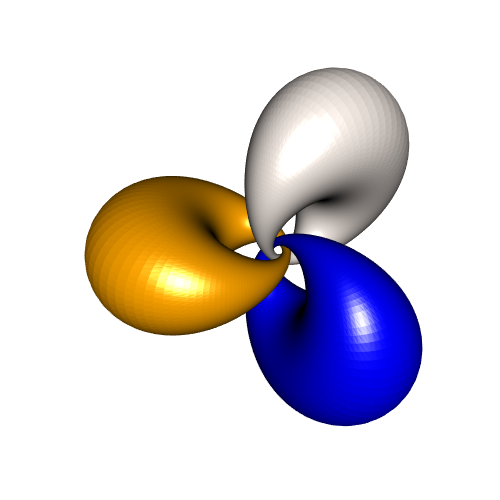
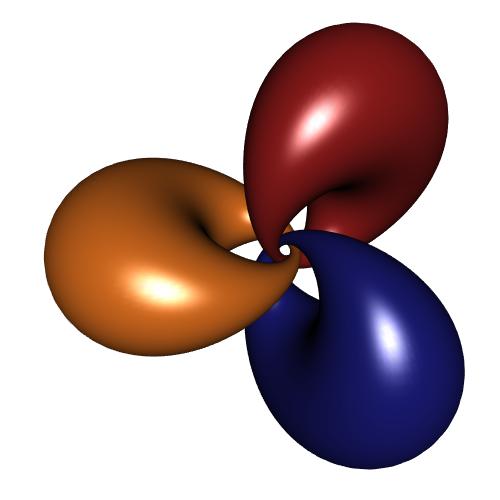
update linked cyclides

diff --git a/posts/linkedCyclidesParametric.html b/posts/linkedCyclidesParametric.html
@@ -135,13 +135,13 @@ f3z &lt;-<span class="st"> </span><span class="kw">Vectorize</span>(<span class=
 n &lt;-<span class="st"> </span><span class="dv">300</span>
 <span class="kw">parametric3d</span>(f1x,f1y,f1z, <span class="dt">umin=</span><span class="dv">0</span>,<span class="dt">umax=</span><span class="dv">2</span><span class="op">*</span>pi, <span class="dt">vmin=</span><span class="dv">0</span>,<span class="dt">vmax=</span><span class="dv">2</span><span class="op">*</span>pi, 
              <span class="dt">n=</span>n, 
-             <span class="dt">fill=</span><span class="ot">TRUE</span>, <span class="dt">color=</span><span class="st">&quot;orange&quot;</span>)
+             <span class="dt">smooth=</span><span class="ot">TRUE</span>, <span class="dt">color=</span><span class="st">&quot;chocolate&quot;</span>)
 <span class="kw">parametric3d</span>(f2x,f2y,f2z, <span class="dt">umin=</span><span class="dv">0</span>,<span class="dt">umax=</span><span class="dv">2</span><span class="op">*</span>pi, <span class="dt">vmin=</span><span class="dv">0</span>,<span class="dt">vmax=</span><span class="dv">2</span><span class="op">*</span>pi, 
              <span class="dt">n=</span>n, 
-             <span class="dt">fill=</span><span class="ot">TRUE</span>, <span class="dt">color=</span><span class="st">&quot;blue&quot;</span>, <span class="dt">add=</span><span class="ot">TRUE</span>)
+             <span class="dt">smooth=</span><span class="ot">TRUE</span>, <span class="dt">color=</span><span class="st">&quot;midnightblue&quot;</span>, <span class="dt">add=</span><span class="ot">TRUE</span>)
 <span class="kw">parametric3d</span>(f3x,f3y,f3z, <span class="dt">umin=</span><span class="dv">0</span>,<span class="dt">umax=</span><span class="dv">2</span><span class="op">*</span>pi, <span class="dt">vmin=</span><span class="dv">0</span>,<span class="dt">vmax=</span><span class="dv">2</span><span class="op">*</span>pi, 
              <span class="dt">n=</span>n, 
-             <span class="dt">fill=</span><span class="ot">TRUE</span>, <span class="dt">color=</span><span class="st">&quot;seaShell&quot;</span>, <span class="dt">add=</span><span class="ot">TRUE</span>)</code></pre></div>
+             <span class="dt">smooth=</span><span class="ot">TRUE</span>, <span class="dt">color=</span><span class="st">&quot;firebrick4&quot;</span>, <span class="dt">add=</span><span class="ot">TRUE</span>)</code></pre></div>
 <p>This code generates the following picture:</p>
 <div class="figure">
 <img src="figures/linkedCyclidesParametric.png" />
@@ -233,6 +233,158 @@ draw(s2,render(merge=true));
 surface s3=surface(f3,(<span class="dv">0</span>,<span class="dv">0</span>),(2pi,2pi),<span class="dv">35</span>,<span class="dv">35</span>,Notaknot,Notaknot);
 s3.colors(palette(s3.map(abs), Gradient(<span class="dv">256</span>,red,black)));
 draw(s3,render(merge=true));</code></pre></div>
+<h1 id="update-2018-12-06">Update 2018-12-06</h1>
+<p>Actually the three cyclides differ from each other by a rotation around the <span class="math inline">\(y\)</span>-axis. Thus one can calculate the first one and construct the two other ones by rotation. So we can do like this in R:</p>
+<div class="sourceCode"><pre class="sourceCode r"><code class="sourceCode r"><span class="kw">library</span>(rgl)
+
+<span class="co"># &quot;inverse&quot; Hopf map</span>
+hopfinverse &lt;-<span class="st"> </span><span class="cf">function</span>(q, t){ 
+  <span class="dv">1</span><span class="op">/</span><span class="kw">sqrt</span>(<span class="dv">2</span><span class="op">*</span>(<span class="dv">1</span><span class="op">+</span>q[<span class="dv">3</span>])) <span class="op">*</span><span class="st"> </span><span class="kw">c</span>(q[<span class="dv">1</span>]<span class="op">*</span><span class="kw">cos</span>(t)<span class="op">+</span>q[<span class="dv">2</span>]<span class="op">*</span><span class="kw">sin</span>(t),
+                         <span class="kw">sin</span>(t)<span class="op">*</span>(<span class="dv">1</span><span class="op">+</span>q[<span class="dv">3</span>]),
+                         <span class="kw">cos</span>(t)<span class="op">*</span>(<span class="dv">1</span><span class="op">+</span>q[<span class="dv">3</span>]),
+                         q[<span class="dv">1</span>]<span class="op">*</span><span class="kw">sin</span>(t)<span class="op">-</span>q[<span class="dv">2</span>]<span class="op">*</span><span class="kw">cos</span>(t)) 
+}
+<span class="co"># stereographic projection</span>
+stereog &lt;-<span class="st"> </span><span class="cf">function</span>(x){
+  <span class="kw">c</span>(x[<span class="dv">1</span>], x[<span class="dv">2</span>], x[<span class="dv">3</span>])<span class="op">/</span>(<span class="dv">1</span><span class="op">-</span>x[<span class="dv">4</span>])
+}
+<span class="co"># rotation in 4D space (right-isoclinic)</span>
+rotate4d &lt;-<span class="st"> </span><span class="cf">function</span>(alpha, beta, xi, vec){
+  a =<span class="st"> </span><span class="kw">cos</span>(xi)
+  b =<span class="st"> </span><span class="kw">sin</span>(alpha)<span class="op">*</span><span class="kw">cos</span>(beta)<span class="op">*</span><span class="kw">sin</span>(xi)
+  c =<span class="st"> </span><span class="kw">sin</span>(alpha)<span class="op">*</span><span class="kw">sin</span>(beta)<span class="op">*</span><span class="kw">sin</span>(xi)
+  d =<span class="st"> </span><span class="kw">cos</span>(alpha)<span class="op">*</span><span class="kw">sin</span>(xi)
+  p =<span class="st"> </span>vec[<span class="dv">1</span>]; q =<span class="st"> </span>vec[<span class="dv">2</span>]; r =<span class="st"> </span>vec[<span class="dv">3</span>]; s =<span class="st"> </span>vec[<span class="dv">4</span>]
+  <span class="kw">c</span>(a<span class="op">*</span>p <span class="op">-</span><span class="st"> </span>b<span class="op">*</span>q <span class="op">-</span><span class="st"> </span>c<span class="op">*</span>r <span class="op">-</span><span class="st"> </span>d<span class="op">*</span>s,
+    a<span class="op">*</span>q <span class="op">+</span><span class="st"> </span>b<span class="op">*</span>p <span class="op">+</span><span class="st"> </span>c<span class="op">*</span>s <span class="op">-</span><span class="st"> </span>d<span class="op">*</span>r,
+    a<span class="op">*</span>r <span class="op">-</span><span class="st"> </span>b<span class="op">*</span>s <span class="op">+</span><span class="st"> </span>c<span class="op">*</span>p <span class="op">+</span><span class="st"> </span>d<span class="op">*</span>q,
+    a<span class="op">*</span>s <span class="op">+</span><span class="st"> </span>b<span class="op">*</span>r <span class="op">-</span><span class="st"> </span>c<span class="op">*</span>q <span class="op">+</span><span class="st"> </span>d<span class="op">*</span>p)
+}
+<span class="co"># cyclide parameterization</span>
+f &lt;-<span class="st"> </span><span class="cf">function</span>(phi, theta, t){ <span class="co"># -pi/2 &lt; phi &lt; pi/2</span>
+  p &lt;-<span class="st"> </span><span class="kw">c</span>(<span class="kw">cos</span>(theta)<span class="op">*</span><span class="kw">cos</span>(phi), <span class="kw">sin</span>(theta)<span class="op">*</span><span class="kw">cos</span>(phi), <span class="kw">sin</span>(phi))
+  h &lt;-<span class="st"> </span><span class="kw">hopfinverse</span>(p, t)
+  hr &lt;-<span class="st"> </span><span class="kw">rotate4d</span>(pi<span class="op">/</span><span class="dv">2</span>, <span class="dv">0</span>, <span class="dv">1</span>, h)
+  <span class="kw">stereog</span>(hr)
+}
+<span class="co"># cyclide as mesh</span>
+cyclideMesh &lt;-<span class="st"> </span><span class="cf">function</span>(phi, nu, nv){
+  vs &lt;-<span class="st"> </span><span class="kw">matrix</span>(<span class="ot">NA_real_</span>, <span class="dt">nrow=</span><span class="dv">3</span>, <span class="dt">ncol=</span>nu<span class="op">*</span>nv)
+  u_ &lt;-<span class="st"> </span><span class="kw">seq</span>(<span class="dv">0</span>, <span class="dv">2</span><span class="op">*</span>pi, <span class="dt">length.out =</span> nu<span class="op">+</span><span class="dv">1</span>)[<span class="op">-</span><span class="dv">1</span>]
+  v_ &lt;-<span class="st"> </span><span class="kw">seq</span>(<span class="dv">0</span>, <span class="dv">2</span><span class="op">*</span>pi, <span class="dt">length.out =</span> nv<span class="op">+</span><span class="dv">1</span>)[<span class="op">-</span><span class="dv">1</span>]
+  <span class="cf">for</span>(i <span class="cf">in</span> <span class="dv">1</span><span class="op">:</span>nu){
+    <span class="cf">for</span>(j <span class="cf">in</span> <span class="dv">1</span><span class="op">:</span>nv){
+      vs[,(i<span class="op">-</span><span class="dv">1</span>)<span class="op">*</span>nv<span class="op">+</span>j] &lt;-<span class="st"> </span><span class="kw">f</span>(phi, u_[i], v_[j])
+    }
+  }
+  tris1 &lt;-<span class="st"> </span><span class="kw">matrix</span>(<span class="ot">NA_integer_</span>, <span class="dt">nrow=</span><span class="dv">3</span>, <span class="dt">ncol=</span>nu<span class="op">*</span>nv)
+  tris2 &lt;-<span class="st"> </span><span class="kw">matrix</span>(<span class="ot">NA_integer_</span>, <span class="dt">nrow=</span><span class="dv">3</span>, <span class="dt">ncol=</span>nu<span class="op">*</span>nv)
+  nv &lt;-<span class="st"> </span><span class="kw">as.integer</span>(nv)
+  <span class="cf">for</span>(i <span class="cf">in</span> 1L<span class="op">:</span>nu){
+    ip1 &lt;-<span class="st"> </span><span class="kw">ifelse</span>(i<span class="op">==</span>nu, 1L, i<span class="op">+</span>1L)
+    <span class="cf">for</span>(j <span class="cf">in</span> 1L<span class="op">:</span>nv){
+      jp1 &lt;-<span class="st"> </span><span class="kw">ifelse</span>(j<span class="op">==</span>nv, 1L, j<span class="op">+</span>1L)
+      tris1[,(i<span class="op">-</span><span class="dv">1</span>)<span class="op">*</span>nv<span class="op">+</span>j] &lt;-<span class="st"> </span><span class="kw">c</span>((i<span class="op">-</span>1L)<span class="op">*</span>nv<span class="op">+</span>j,(i<span class="op">-</span>1L)<span class="op">*</span>nv<span class="op">+</span>jp1, (ip1<span class="op">-</span>1L)<span class="op">*</span>nv<span class="op">+</span>j)   
+      tris2[,(i<span class="op">-</span><span class="dv">1</span>)<span class="op">*</span>nv<span class="op">+</span>j] &lt;-<span class="st"> </span><span class="kw">c</span>((i<span class="op">-</span>1L)<span class="op">*</span>nv<span class="op">+</span>jp1,(ip1<span class="op">-</span>1L)<span class="op">*</span>nv<span class="op">+</span>jp1,(ip1<span class="op">-</span>1L)<span class="op">*</span>nv<span class="op">+</span>j)   
+    }
+  }
+  out &lt;-<span class="st"> </span><span class="kw">tmesh3d</span>(
+    <span class="dt">vertices =</span> vs,
+    <span class="dt">indices =</span> <span class="kw">cbind</span>(tris1, tris2),
+    <span class="dt">homogeneous =</span> <span class="ot">FALSE</span>
+  )
+  <span class="kw">addNormals</span>(out)
+}
+
+<span class="co"># draw ####</span>
+phi &lt;-<span class="st"> </span><span class="fl">1.2</span>
+mesh1 &lt;-<span class="st"> </span><span class="kw">cyclideMesh</span>(phi, <span class="dv">250</span>, <span class="dv">250</span>)
+n &lt;-<span class="st"> </span><span class="dv">3</span>
+beta_ &lt;-<span class="st"> </span><span class="kw">seq</span>(<span class="dv">0</span>, <span class="dv">2</span><span class="op">*</span>pi , <span class="dt">length.out =</span> n<span class="op">+</span><span class="dv">1</span>)[<span class="op">-</span><span class="dv">1</span>][<span class="op">-</span>n]
+colors &lt;-<span class="st"> </span>viridisLite<span class="op">::</span><span class="kw">viridis</span>(n)
+<span class="kw">open3d</span>(<span class="dt">windowRect=</span><span class="kw">c</span>(<span class="dv">50</span>,<span class="dv">50</span>,<span class="dv">550</span>,<span class="dv">550</span>))
+<span class="kw">view3d</span>(<span class="dv">0</span>,<span class="dv">90</span>)
+<span class="kw">shade3d</span>(mesh1, <span class="dt">color =</span> colors[<span class="dv">1</span>])
+<span class="cf">for</span>(i <span class="cf">in</span> <span class="kw">seq_along</span>(beta_)){
+  <span class="kw">shade3d</span>(<span class="kw">rotate3d</span>(mesh1, beta_[i], <span class="dv">0</span>, <span class="dv">1</span>, <span class="dv">0</span>), <span class="dt">color =</span> colors[i<span class="op">+</span><span class="dv">1</span>])
+}</code></pre></div>
+<div class="figure">
+<img src="figures/threeCyclidesR.png" />
+
+</div>
+<p>And like this in Asymptote:</p>
+<div class="sourceCode"><pre class="sourceCode c"><code class="sourceCode c">settings.render = <span class="dv">4</span>;
+<span class="co">// import modules</span>
+import three;
+import solids;
+import palette;
+<span class="co">// overall settings</span>
+currentprojection = orthographic(<span class="dv">0</span>, <span class="dv">5</span>, <span class="dv">0</span>);
+viewportmargin = (<span class="dv">10</span>,<span class="dv">10</span>);
+size(10cm);
+currentlight = ((<span class="dv">3</span>,<span class="dv">3</span>,<span class="dv">0</span>));
+
+<span class="co">// &quot;inverse&quot; Hopf map ----------------------------------------------------------</span>
+real[] hopfinverse(triple q, real t){
+  real f = <span class="dv">1</span>/sqrt(<span class="dv">2</span>*(<span class="dv">1</span>+q.z));
+  real[] out = {f*(q.x*cos(t)+q.y*sin(t)),
+                f*sin(t)*(<span class="dv">1</span>+q.z),
+                f*cos(t)*(<span class="dv">1</span>+q.z),
+                f*(q.x*sin(t)-q.y*cos(t))};
+  <span class="cf">return</span> out;
+}
+<span class="co">// stereographic projection ----------------------------------------------------</span>
+triple stereog(real[] x){
+  <span class="cf">return</span> (x[<span class="dv">0</span>],x[<span class="dv">1</span>],x[<span class="dv">2</span>])/(<span class="dv">1</span>-x[<span class="dv">3</span>]);
+}
+<span class="co">// rotation in 4D space (right-isoclinic) --------------------------------------</span>
+real[] rotate4d(real alpha, real beta, real xi, real[] vec){
+  real a = cos(xi);
+  real b = sin(alpha)*cos(beta)*sin(xi);
+  real c = sin(alpha)*sin(beta)*sin(xi);
+  real d = cos(alpha)*sin(xi);
+  real p = vec[<span class="dv">0</span>];
+  real q = vec[<span class="dv">1</span>];
+  real r = vec[<span class="dv">2</span>];
+  real s = vec[<span class="dv">3</span>];
+  real[] out = {a*p - b*q - c*r - d*s,
+                a*q + b*p + c*s - d*r,
+                a*r - b*s + c*p + d*q,
+                a*s + b*r - c*q + d*p};
+  <span class="cf">return</span> out;
+}
+<span class="co">// parameterization ------------------------------------------------------------</span>
+real phi = <span class="fl">1.2</span>;
+triple f0(real theta, real t){
+  triple p = (cos(theta)*cos(phi), sin(theta)*cos(phi), sin(phi));
+  real[] h = hopfinverse(p, t);
+  real[] hr = rotate4d(pi/<span class="dv">2</span>, <span class="dv">0</span>, <span class="dv">1</span>, h);
+  <span class="cf">return</span> stereog(hr);
+}
+triple f(pair uv){
+  <span class="cf">return</span> f0(uv.x, uv.y);
+}
+
+<span class="co">// draw ------------------------------------------------------------------------</span>
+surface s = surface(f, (<span class="dv">0</span>,<span class="dv">0</span>), (2pi,2pi), <span class="dv">55</span>, <span class="dv">55</span>, Spline);
+
+pen[] colors = Rainbow(); 
+
+surface s1 = s;
+s1.colors(palette(s1.map(abs), Gradient(<span class="dv">256</span>,colors[<span class="dv">0</span>],black)));
+draw(s1, render(merge=true));
+
+surface s2 = rotate(<span class="dv">120</span>,Y)*s;
+s2.colors(palette(s2.map(abs), Gradient(<span class="dv">256</span>,colors[<span class="dv">10000</span>],black)));
+draw(s2, render(merge=true));
+
+surface s3 = rotate(<span class="dv">240</span>,Y)*s;
+s3.colors(palette(s3.map(abs), Gradient(<span class="dv">256</span>,colors[<span class="dv">30000</span>],black)));
+draw(s3, render(merge=true));</code></pre></div>
+<div class="figure">
+<img src="figures/threeCyclidesAsy.png" />
+
+</div>
 
     </div>
 

diff --git a/frames/threejs_TwentyCones3.html b/frames/threejs_TwentyCones3.html
@@ -24,8 +24,8 @@
   <script>
     var R = 0.1,
       r = 0.02;
-    var nstacks = 29,
-      nslices = 60;
+    var nstacks = 9,
+      nslices = 15;
     var pi = Math.PI;
   </script>
 
@@ -182,6 +182,7 @@
       var bufGeom = new THREE.BufferGeometry().fromGeometry(geom);
       var material = materialBack === null ?
         materialFront : [materialFront, materialBack];
+      console.log(geom);
       var conemesh = new THREE.Mesh(bufGeom, material);
       return conemesh;
     }
